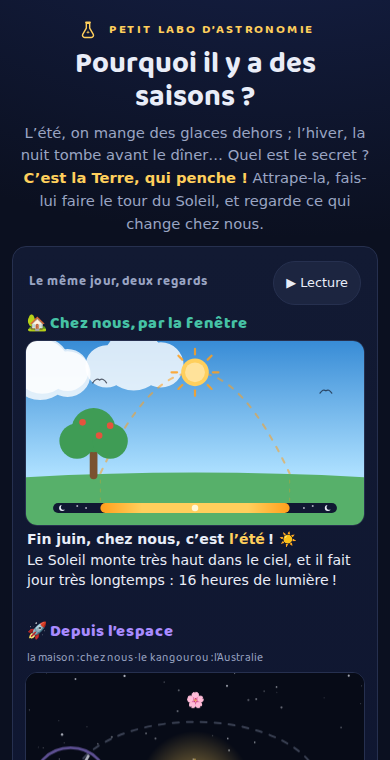
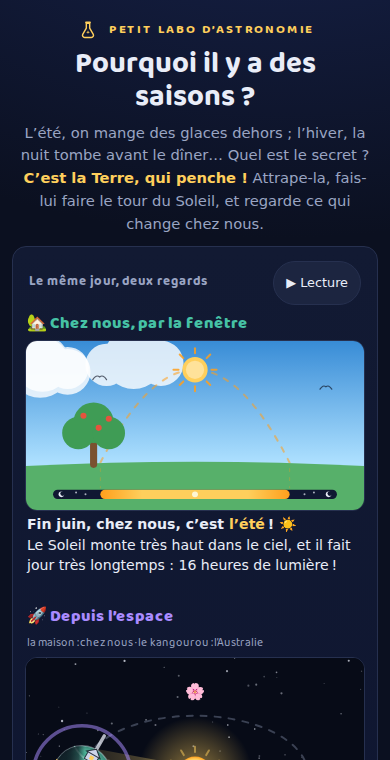
fix: le globe se mesure à la largeur du téléphone, la frise se paie sur le jardin
Quatre resserrages en vh en une semaine avaient fait passer la Terre de
57 à 43 px de diamètre sur iPhone 13 (retour utilisateur : « très
petite »). En mode compact, le globe se mesure désormais à la LARGEUR
(rTerre = min(0,085 l ; 0,16 h)) : c'est la hauteur qui manque sur un
téléphone, et le prochain réglage de hauteur ne le touchera plus. À
0,085 l, la scène (57 px) et le jeu (56 px, ratio 9/7) portent la même
Terre.

Et la frise ne se paie plus sur la vue qu'on manipule : espace revenu à
31vh (sa hauteur d'avant la frise), fenêtre à 22,5vh. Budget mobile
re-mesuré sur l'année : 715 px, inchangé.

Claude-Session: https://claude.ai/code/session_01Fy3EusRxbZ4tsWYvLtoeC7

diff --git a/js/vue-orbite.js b/js/vue-orbite.js
@@ -164,7 +164,13 @@ export function creerVueOrbite(canvas) {
     var compact = Math.min(w, h) < 400 * (window.devicePixelRatio || 1);
     var cx = w * 0.5;                 /* le Soleil au centre : l'objet-repère fixe */
     var cy = h * 0.52;
-    var rTerre = Math.min(w, h) * (compact ? 0.105 : 0.095);
+    /* En mode compact (téléphone), le globe se mesure à la LARGEUR : c'est
+     * la hauteur qui manque sur un téléphone, et chaque resserrage en vh
+     * rognait le globe (57 → 43 px de diamètre en une semaine — retour
+     * utilisateur : « très petit »). 8,5 % de la largeur = la Terre du jeu
+     * (56 px) dans la scène aussi, quelle que soit la hauteur ; plafond
+     * 0,16 h pour qu'elle reste entière dans un canvas en paysage. */
+    var rTerre = compact ? Math.min(w * 0.085, h * 0.16) : Math.min(w, h) * 0.095;
     /* Le globe et son anneau « attrape-moi » (1,82 rTerre) doivent tenir en
      * entier aux solstices : l'orbite se borne pour leur laisser la place. */
     var rx = Math.min(w * 0.38, h * 0.62, w * 0.5 - rTerre * 1.95);

diff --git a/css/style.css b/css/style.css
@@ -464,8 +464,10 @@ button:focus-visible, input:focus-visible, a:focus-visible {
      interlignes serrés, mesurés au script (pire cas balayé sur l'année :
      713 px) */
   .grille-vues { gap: 8px; }
-  .grille-vues .ratio-fenetre { aspect-ratio: auto; height: min(50vw, 24.5vh); }
-  .grille-vues .ratio-espace { aspect-ratio: auto; height: min(58vw, 29vh); }
+  /* la frise se paie sur le jardin, pas sur l'espace (la vue qu'on
+     manipule) : espace revenu à 31vh, fenêtre à 22,5vh */
+  .grille-vues .ratio-fenetre { aspect-ratio: auto; height: min(50vw, 22.5vh); }
+  .grille-vues .ratio-espace { aspect-ratio: auto; height: min(58vw, 31vh); }
   .entete-vue { margin-bottom: 4px; }
   .phrase-vue { margin-top: 4px; line-height: 1.38; font-size: .88rem; }
 

diff --git a/CLAUDE.md b/CLAUDE.md
@@ -100,6 +100,9 @@ Vérités verrouillées par `test/model.test.mjs` (à compléter, jamais supprim
   `positionTerre(jour) = (−cos a, −sin a)` (sens trigonométrique). Solstice
   d'été : Terre à gauche du Soleil ; hiver : à droite ; l'automne passe par le
   bas de l'écran, le printemps par le haut.
+- Rayon du globe : `0,095 × min(l, h)` sur grand écran, **`min(0,085 l ;
+  0,16 h)` en mode compact** (< 400 px de canvas) — voir le bloc mobile
+  des invariants.
 - L'axe penche vers **+x** (`AXE_DIR`, constant), dessiné à 30°
   (`INCLINAISON_DESSIN_DEGRES`, exagéré — les 23,5° réels servent aux chiffres).
 - `penchementNord(jour) = cos(angleAnnee) = −positionTerre.x` : +1 au solstice
@@ -265,8 +268,8 @@ Vérités verrouillées par `test/model.test.mjs` (à compléter, jamais supprim
 - **Sur mobile, les DEUX vues, leurs DEUX phrases ET la frise de l'année
   tiennent dans un écran de téléphone** (retour utilisateur, resserré
   trois fois) : du titre de la fenêtre au bas de la frise, **715 px** pour
-  ~715 px visibles sur iPhone — hauteurs `min(50vw, 24.5vh)` (fenêtre) et
-  `min(58vw, 29vh)` (espace), gap 8 px, phrases en `.88rem` interligne
+  ~715 px visibles sur iPhone — hauteurs `min(50vw, 22.5vh)` (fenêtre) et
+  `min(58vw, 31vh)` (espace), gap 8 px, phrases en `.88rem` interligne
   1,38, réserve de la phrase re-mesurée à 5,75 em (pire cas : jour 68, la
   bande de transition — à ce corps la phrase tient sur QUATRE lignes, plus
   cinq). Les 107 px qu'a coûtés la frise se sont pris d'abord là où les
@@ -276,9 +279,15 @@ Vérités verrouillées par `test/model.test.mjs` (à compléter, jamais supprim
   du ruban** (1 rem, 1,2 em de haut, descendue de 8 px dans le vide que
   le curseur garde au-dessus de sa piste, `pointer-events: none`) — JAMAIS
   sur le ruban : posés dessus, ils se lisaient comme un bug (retour
-  utilisateur, iPhone) ; les 65 restants ont rogné
-  les vues de ~7 % (globe : 23,1 → 21,6 px de rayon ; la zone de saisie,
-  `max(rTerre × 2,6 ; 44 px)`, reste à 56 px). Raccourcir les textes ne
+  utilisateur, iPhone) ; les 65 restants se prennent sur le JARDIN
+  (24,5 → 22,5vh), jamais sur l'espace — la vue qu'on manipule est revenue
+  à 31vh, sa hauteur d'avant la frise. **Le globe ne dépend plus de la
+  hauteur** : en mode compact, `rTerre = min(0,085 l ; 0,16 h)` (retour
+  utilisateur : quatre resserrages en vh l'avaient fait passer de 57 à
+  43 px de diamètre en une semaine — « très petit ») ; à 0,085 l, la scène
+  (57 px) et le jeu (56 px, ratio 9/7) portent la MÊME Terre, et le
+  prochain réglage de hauteur ne la touchera pas ; la zone de saisie
+  `max(rTerre × 2,6 ; 44 px)` suit. Raccourcir les textes ne
   rendrait RIEN à ce corps (mesuré : le pire cas n'est plus le commentaire
   d'été mais la bande de transition). Toujours MESURER au script (balayage
   de l'année) avant de régler ces chiffres. Les hauteurs sont portées par
